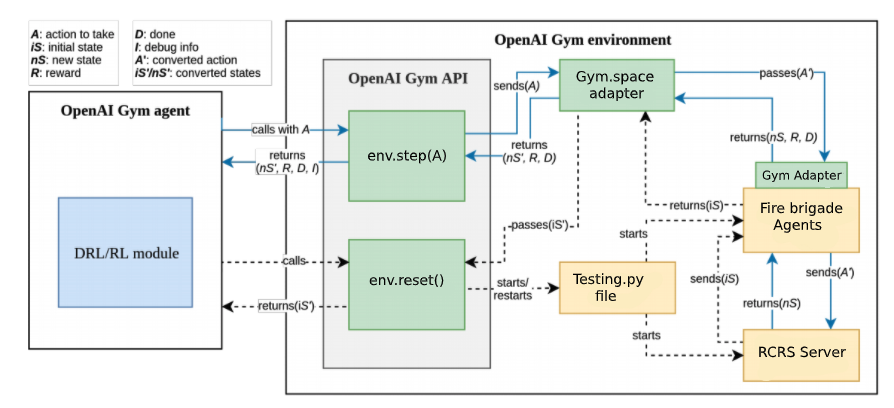
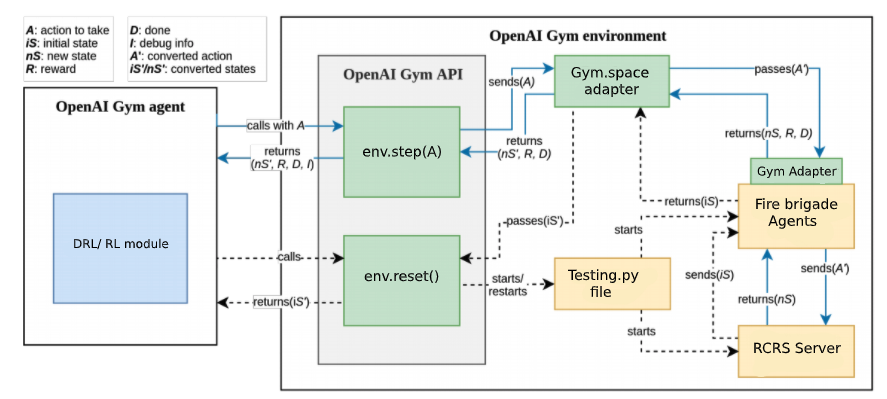
Section 4 done

Changed region(s): [[0.0304, 0.0301, 1.0, 0.9925], [0.3653, 0.8722, 0.5479, 0.9323], [0.7001, 0.5414, 0.7306, 0.6015]]

diff --git a/thesis.tex b/thesis.tex
@@ -96,7 +96,7 @@
 \begin{thesisacknowledgments}       
 First and foremost I would like to thank my advisor, Peter Stone, for his guidance and encouragement throughout this report. He always made himself available to provide help and I could always count on his lightning-fast email responses. He gave me autonomy in finding a research topic and provided the right amount of guidance to help me make progress when I felt stuck. It has been a privilege to work with him. Garrett Warnell and Tsz-Chiu Au deserves a special thanks as collaborators and mentors throughout my research. They have provided invaluable help, especially with regards to their extensive reviews of my writing. Discussions with them have helped me flesh out ideas fully, and my writing and research ability have improved through their mentorship.    
 
-I would like to thank several of my peers and colleagues for the help they’ve provided during my report. Aastha Goyal has provided invaluable input with her experience with Java and gRPC. She was always very helpful and supportive. Ashutosh Shukla reviewed several of my work and and provided extensive feedback. His constant motivation was very encouraging throughout my report. I would also like to thank Ishan Durugkar and Siddharth for being always available to solve any doubts that I had regarding the simulator. 
+I would like to thank several of my peers and colleagues for the help they’ve provided during my report. Aastha Goyal has provided invaluable input with her experience with Java and gRPC. She was always very helpful and supportive. Ashutosh Shukla reviewed several of my work and and provided extensive feedback. His constant motivation was very encouraging throughout my research. I would also like to thank Ishan Durugkar and Siddharth for being always available to solve any doubts that I had regarding the simulator. 
 
 This work has taken place in the Learning Agents Research Group (LARG) at the Artificial Intelligence Laboratory, The University of Texas at Austin.  LARG research is supported in part by grants from
 the National Science Foundation (CPS-1739964, IIS-1724157, NRI-1925082), the Office of Naval Research (N00014-18-2243), Future of Life Institute (RFP2-000), Army Research Laboratory, DARPA, Lockheed
@@ -532,7 +532,7 @@ The conceptual model of RCRS gym environment is presented in Figure ~\ref{fig:Op
 
 \begin{figure}[!h]
     \centering
-    \includegraphics[height=10cm, width=17cm]{OpenAIgymRCRS.png}
+    \includegraphics[height=8cm, width=17cm]{OpenAIgymRCRS.png}
     \caption{Conceptual model of the RCRS Gym environment and agent}
     \label{fig:OpenAIgymRCRS}
 \end{figure}
@@ -680,41 +680,7 @@ First, \emph{reset} function is called first and the working is explained in Alg
 
 After the simulation starts, gym agent sends a random action to the RCRS server using \emph{step} function which then acts in the environment and sends back the next state information, reward value and if the episode is done or not. Pictorial representation of the working RCRS-gym working is shown in Figure ~\ref{fig:23}. 
 
-An episode is done only after 100 timesteps for "Small" map and after 250 timesteps for "Large" map. The reason for selecting different timesteps for an episode to end was that official RCRS Competition is run for 250 timesteps for "Large" map. But for "Small" map, 250 timesteps was more than enough for all the fire brigades to extinguish the fire in all the buildings. Hence, we decided to reduce that time to 100 timesteps which was sufficient to see if the agents are actually learning or not. The algorithm for step function is mentioned in Algorithm 
-
-\begin{algorithm}[H]
-\SetAlgoLined
-\KwData{Write here the result }
- initialization\;
- \While{While condition}{
-  instructions\;
-  \eIf{condition}{
-   instructions1\;
-   instructions2\;
-   }{
-   instructions3\;
-  }
- }
- \caption{\emph{Reset} implementation}
- \label{alg:ResetAlgo}
-\end{algorithm}
-
-\begin{algorithm}[H]
-\SetAlgoLined
-\KwResult{Write here the result }
- initialization\;
- \While{While condition}{
-  instructions\;
-  \eIf{condition}{
-   instructions1\;
-   instructions2\;
-   }{
-   instructions3\;
-  }
- }
- \caption{\emph{Step} implementation}
- \label{alg:StepAlgo}
-\end{algorithm}
+An episode is done only after 100 timesteps for "Small" map and after 250 timesteps for "Large" map. The reason for selecting different timesteps for an episode to end was that official RCRS Competition is run for 250 timesteps for "Large" map. But for "Small" map, 250 timesteps was more than enough for all the fire brigades to extinguish the fire in all the buildings. Hence, we decided to reduce that time to 100 timesteps which was sufficient to see if the agents are actually learning or not. 
 
 \begin{figure}[!h]
     \centering
@@ -759,12 +725,12 @@ Figure ~\ref{fig:PPOLearningSmallMap} and Figure ~\ref{fig:DQNLearningSmallMap} 
 
 \section{Analysis} \label{Analysis}
 
-\begin{figure}[!h]
-    \centering
-    \includegraphics[width=12cm]{30.png}
-    \caption{Comparison of Results for Big Map}
-    \label{fig:DQNSmallMapLearningMaps}
-\end{figure}
+% \begin{figure}[!h]
+%     \centering
+%     \includegraphics[width=12cm]{30.png}
+%     \caption{Comparison of Results for Big Map}
+%     \label{fig:DQNSmallMapLearningMaps}
+% \end{figure}
 
 \chapter{Conclusion and Future Work}
 
